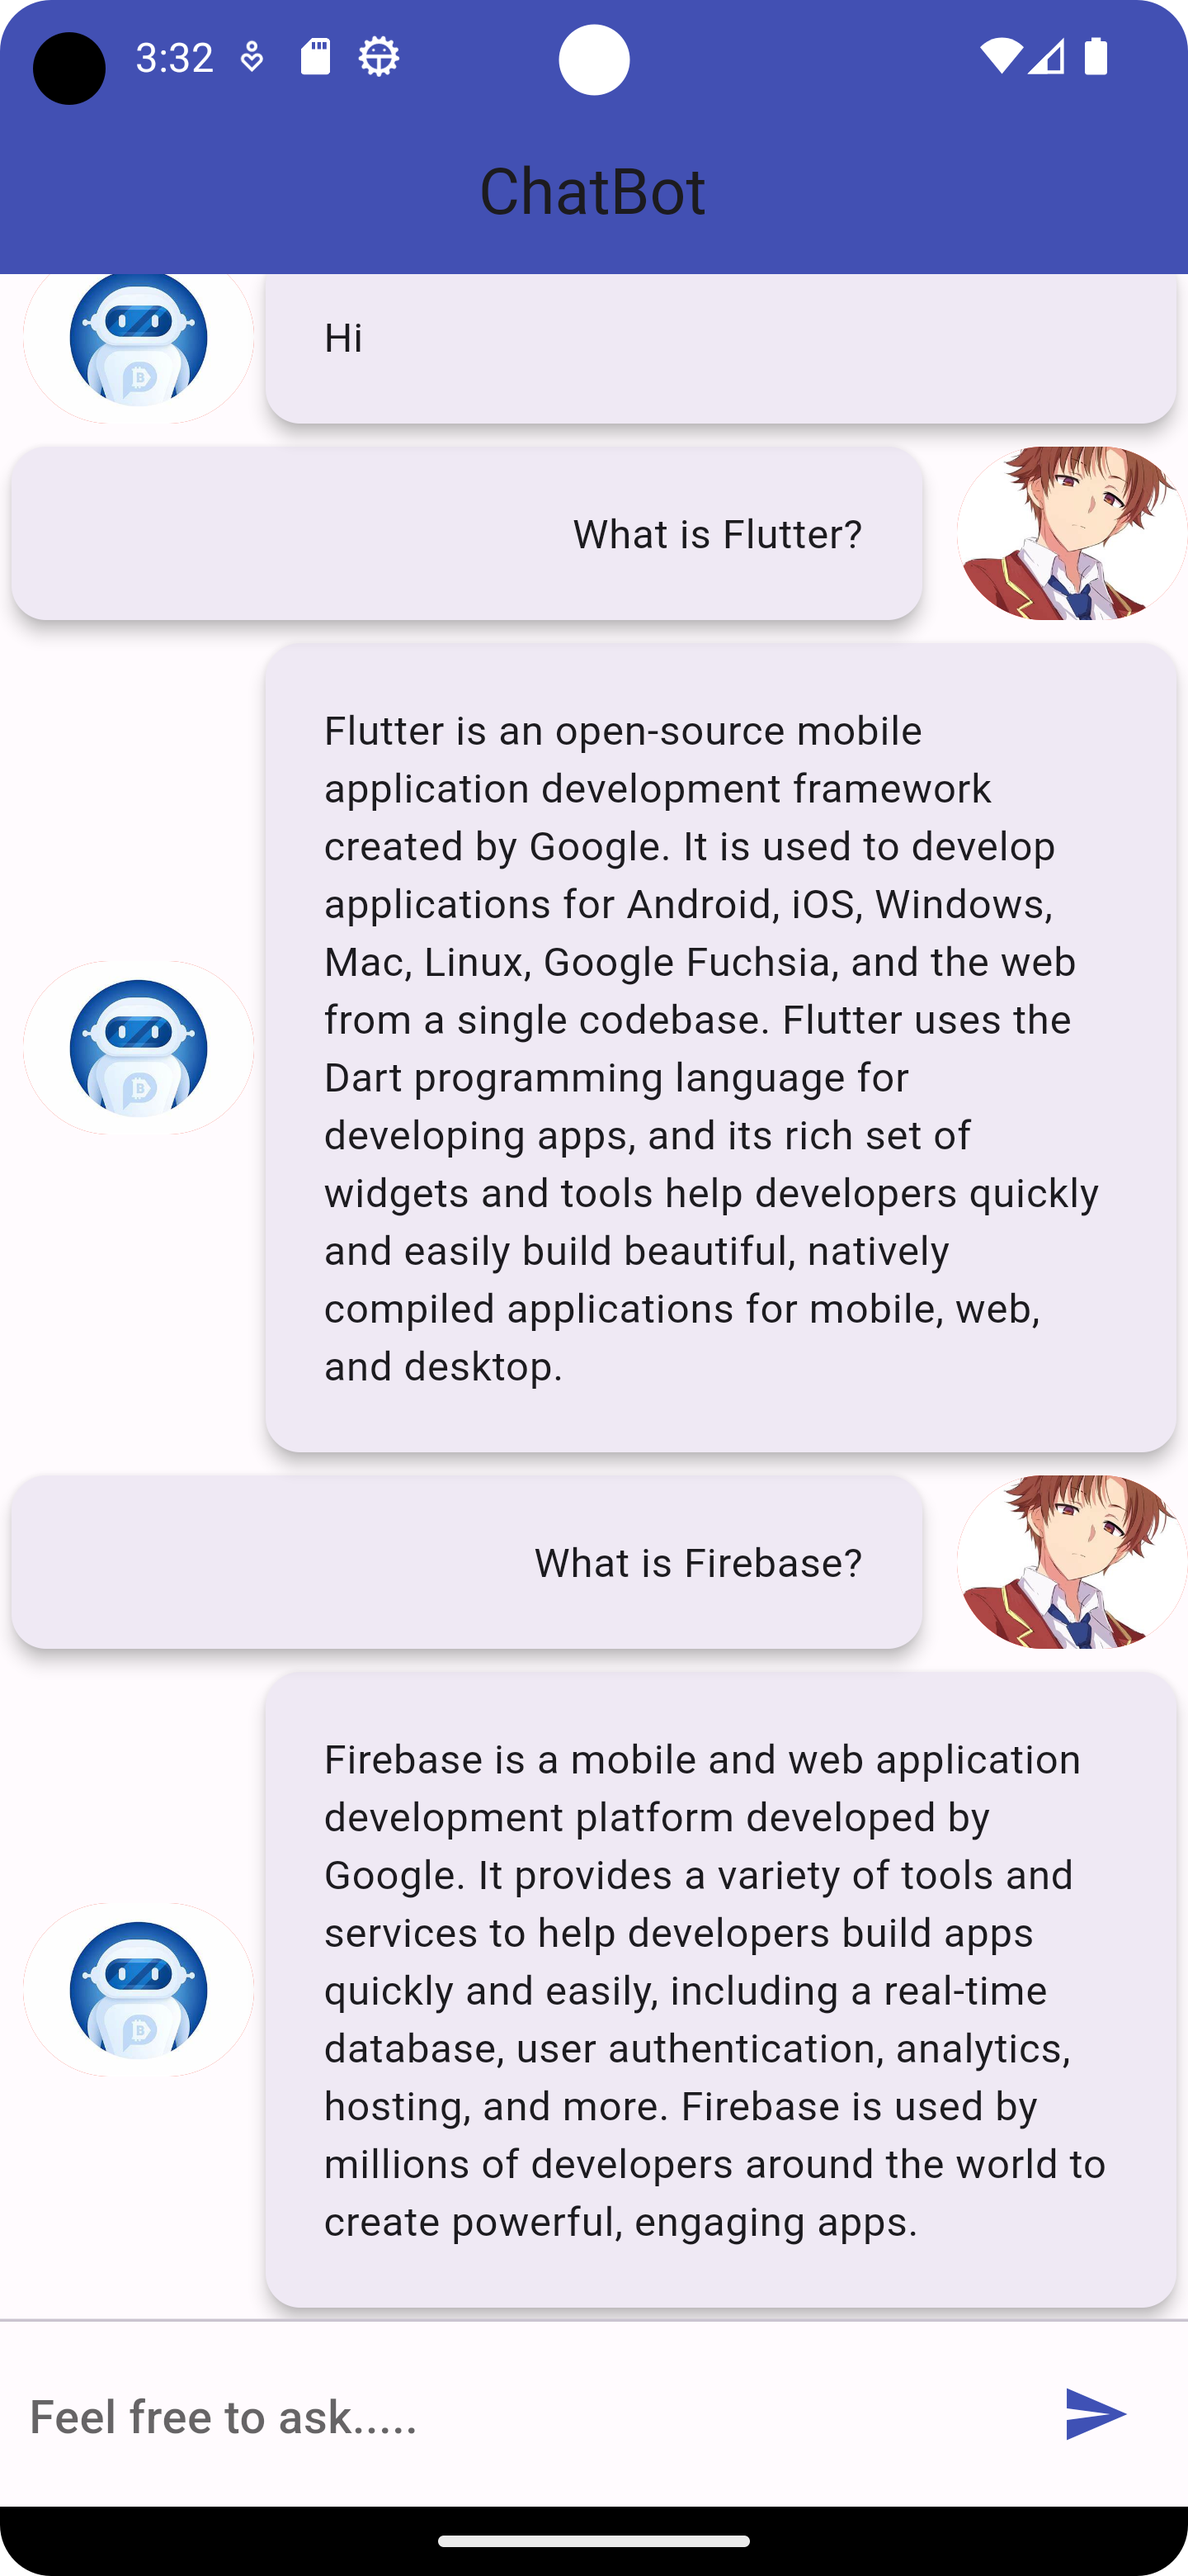
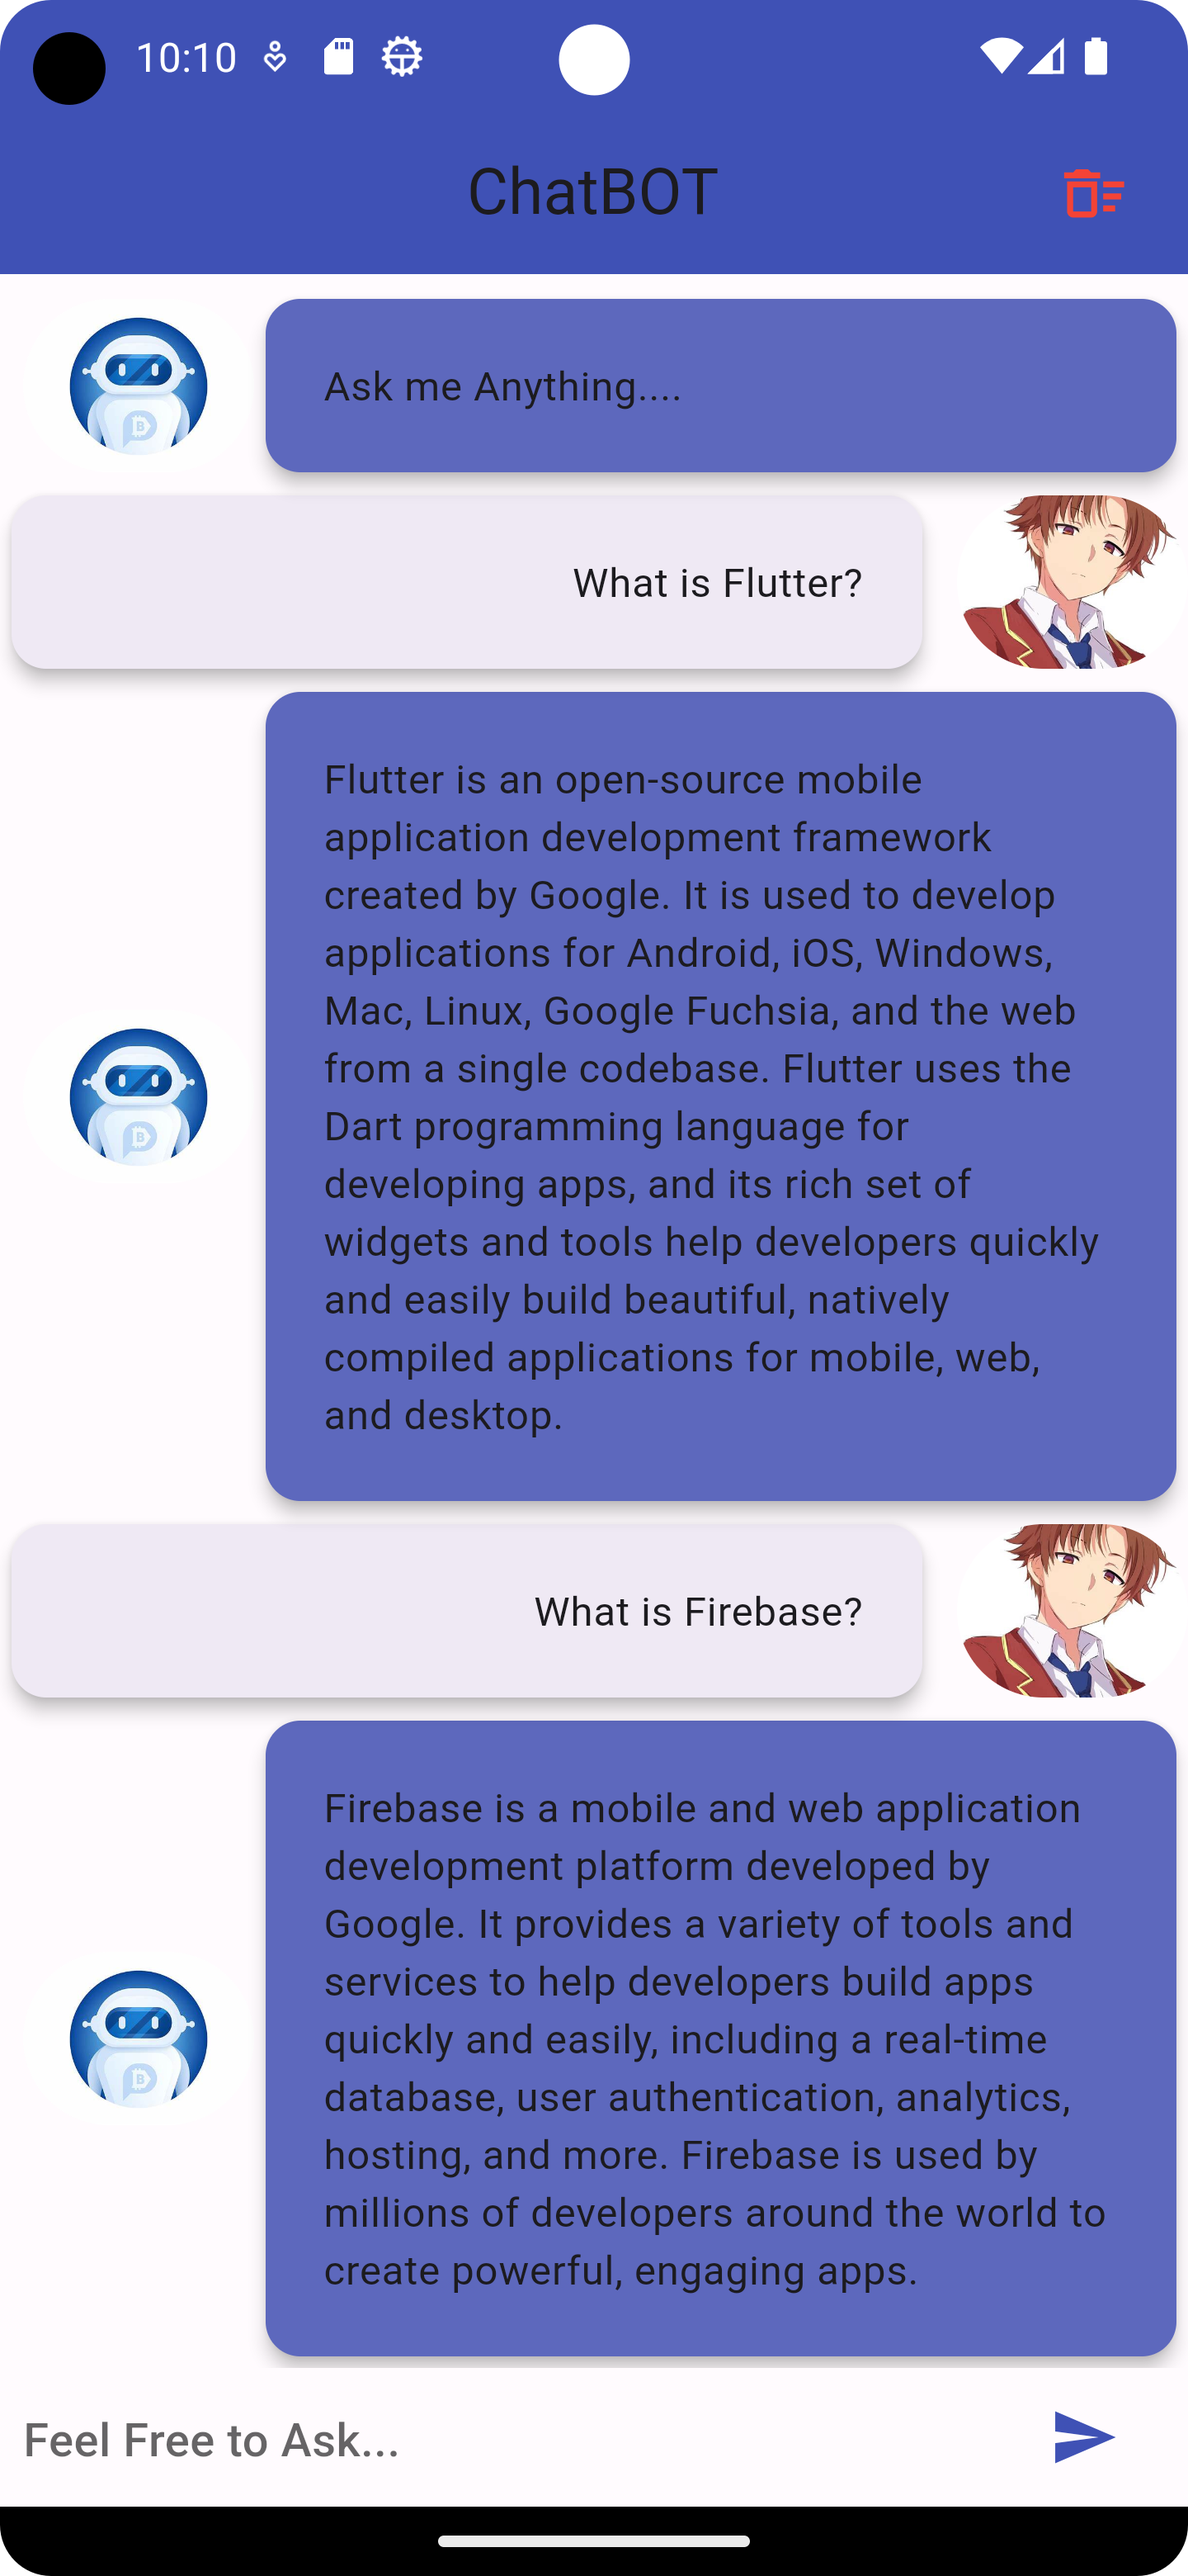
Add files via upload

diff --git a/lib/screens/homepage.dart b/lib/screens/homepage.dart
@@ -1,6 +1,9 @@
 import 'dart:convert';
+import 'package:chatbot/widgets/textfieldwithbutton.dart';
 import 'package:flutter/material.dart';
 import 'package:flutter_spinkit/flutter_spinkit.dart';
+import 'package:path/path.dart';
+import 'package:sqflite/sqflite.dart';
 import '../widgets/chatmessage.dart';
 import 'package:http/http.dart' as http;
 
@@ -14,15 +17,19 @@ class HomeScreen extends StatefulWidget {
 class _HomeScreenState extends State<HomeScreen> {
   final TextEditingController _controller = TextEditingController();
   final List<ChatMessage> _messages = [
-    ChatMessage(text: 'Hi', isMe: false),
+    const ChatMessage(text: 'Ask me Anything....', isMe: false),
   ];
-
   String _chatBotResponse = '';
   bool _isTyping = false;
-  static const apiKey = '{API-KEY}';
+  static const apiKey = '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';
+
+  @override
+  void initState() {
+    super.initState();
+    _getMessagesFromDB();
+  }
 
   Future<void> getGPT3Response(String input) async {
-    print(input);
     final url = Uri.parse('https://api.openai.com/v1/completions');
     final response = await http.post(
       url,
@@ -41,21 +48,31 @@ class _HomeScreenState extends State<HomeScreen> {
     final responseJson = jsonDecode(response.body);
     final responseText = responseJson['choices'][0]['text'];
 
-
     setState(() {
       _chatBotResponse = responseText;
       ChatMessage message = ChatMessage(
         text: _chatBotResponse.trim(),
         isMe: false,
       );
-      setState(() {
-        _messages.insert(0, message);
-        _isTyping = false;
-      });
+      _messages.insert(0, message);
+      _isTyping = false;
     });
+    Database database = await openDatabase(
+      join(await getDatabasesPath(), 'chatbot_db.db'),
+      onCreate: (db, version) {
+        return db.execute(
+          "CREATE TABLE messages (id INTEGER PRIMARY KEY, text TEXT, isMe INTEGER)",
+        );
+      },
+      version: 1,
+    );
+    await database.insert(
+      'messages',
+      {'text': responseText, 'isMe': 0},
+    );
   }
 
-  void _sendMessage() {
+  void _sendMessage() async {
     if (_controller.text.isEmpty) return;
     ChatMessage message = ChatMessage(
       text: _controller.text,
@@ -65,82 +82,110 @@ class _HomeScreenState extends State<HomeScreen> {
       _messages.insert(0, message);
       _isTyping = true;
     });
+
+    Database database = await openDatabase(
+      join(await getDatabasesPath(), 'chatbot_db.db'),
+      onCreate: (db, version) {
+        return db.execute(
+          "CREATE TABLE messages (id INTEGER PRIMARY KEY, text TEXT, isMe INTEGER)",
+        );
+      },
+      version: 1,
+    );
+    await database.insert(
+      'messages',
+      {'text': _controller.text, 'isMe': message.isMe ? 1 : 0},
+    );
     _controller.clear();
-    getGPT3Response(message.text);
+    await getGPT3Response(message.text);
   }
 
-  void insertNewData(String response) {
-    ChatMessage botMessage = ChatMessage(
-      text: response,
-      isMe: true,
+  void _clearDatabase() async {
+    final database = await openDatabase(
+      join(await getDatabasesPath(), 'chatbot_db.db'),
+      onCreate: (db, version) {
+        return db.execute(
+          "CREATE TABLE messages (id INTEGER PRIMARY KEY, text TEXT, isMe INTEGER)",
+        );
+      },
+      version: 1,
     );
+    await database.execute('DELETE FROM messages');
     setState(() {
-      _isTyping = false;
-      _messages.insert(0, botMessage);
+      _messages.clear();
     });
   }
 
-  Widget _buildTextComposer() {
-    return Row(
-      children: [
-        Expanded(
-          child: Padding(
-            padding: const EdgeInsets.all(10.0),
-            child: TextField(
-              controller: _controller,
-              onSubmitted: (value) {
-                _sendMessage();
-              },
-              decoration: const InputDecoration.collapsed(
-                  focusColor: Colors.greenAccent,
-                  hintText: "Feel free to ask....."),
-            ),
-          ),
-        ),
-        ButtonBar(
-          children: [
-            IconButton(
-              color: Colors.indigo,
-              icon: const Icon(Icons.send),
-              onPressed: _sendMessage,
-            ),
-          ],
-        ),
-      ],
+  void _getMessagesFromDB() async {
+    Database database = await openDatabase(
+      join(await getDatabasesPath(), 'chatbot_db.db'),
+      onCreate: (db, version) {
+        return db.execute(
+          "CREATE TABLE messages (id INTEGER PRIMARY KEY, text TEXT, isMe INTEGER)",
+        );
+      },
+      version: 1,
     );
+
+    final List<Map<String, dynamic>> messages =
+        await database.query('messages');
+
+    setState(() {
+      for (int i = messages.length - 1; i >= 0; i--) {
+        var message = messages[i];
+        _messages.add(ChatMessage(
+          text: message['text'],
+          isMe: message['isMe'] == 1,
+        ));
+      }
+    });
   }
 
   @override
   Widget build(BuildContext context) {
     return Scaffold(
-        appBar: AppBar(
-          title: const Center(
-            child: Text('ChatBot'),
+      appBar: AppBar(
+        title: const Text('ChatBOT'),
+        centerTitle: true,
+        backgroundColor: Colors.indigo,
+        actions: [
+          InkWell(
+            onTap: () {
+              _clearDatabase();
+            },
+            child: Row(
+              children: const [
+                // Text('Clear CHAT',style: TextStyle(color: Colors.teal),),
+                Icon(Icons.delete_sweep_outlined, color: Colors.red,size: 25,),
+                SizedBox(width: 20,)
+              ],
+            ),
+          )
+        ],
+      ),
+      body: Column(
+        children: <Widget>[
+          Expanded(
+            child: ListView.builder(
+              itemCount: _messages.length,
+              reverse: true,
+              itemBuilder: (BuildContext context, int index) {
+                return _messages[index];
+              },
+            ),
           ),
-          backgroundColor: Colors.indigo,
-        ),
-        body: Column(
-          children: [
-            Flexible(
-              child: ListView.builder(
-                physics: const BouncingScrollPhysics(),
-                itemCount: _messages.length,
-                reverse: true,
-                itemBuilder: (ctx, index) {
-                  return _messages[index];
-                },
-              ),
-            ),
-            _isTyping ? const SpinKitThreeBounce(color: Colors.green,) : Container(),
-            const Divider(
-              height: 1.0,
-            ),
-            Container(
-              decoration:
-                  BoxDecoration(borderRadius: BorderRadius.circular(15)),
-              child: _buildTextComposer(),
-            )
-          ],
-        ));
+          _isTyping
+              ? const SpinKitThreeBounce(
+                  color: Colors.blue,
+                  size: 30.0,
+                )
+              : Container(),
+          TextFieldWithButton(
+            controller: _controller,
+            sendMessage: _sendMessage,
+          ),
+        ],
+      ),
+    );
   }
 }

diff --git a/lib/widgets/chatmessage.dart b/lib/widgets/chatmessage.dart
@@ -1,7 +1,7 @@
 import 'package:flutter/material.dart';
 
 class ChatMessage extends StatelessWidget {
-  ChatMessage({
+  const ChatMessage({
     Key? key,
     required this.text,
     required this.isMe,
@@ -10,14 +10,15 @@ class ChatMessage extends StatelessWidget {
   final String text;
   final bool isMe;
 
-  String myImageUrl =
+  final String myImageUrl =
       'https://tse2.mm.bing.net/th?id=OIP.E4Kcb0Cqmc-hWVSpmS8qjAHaI9&pid=Api&P=0';
-  String botImageUrl =
+  final String botImageUrl =
       'https://tse4.mm.bing.net/th?id=OIP.FJt-FH98RKamoDc2nntVngHaFj&pid=Api&P=0';
 
-  Widget imageShow() {
+  Widget textResults(context) {
     return Expanded(
         child: Card(
+          color: isMe ? Theme.of(context).cardColor : Colors.indigo[400],
       elevation: 5,
       child: Container(
         margin: const EdgeInsets.all(15),
@@ -32,7 +33,7 @@ class ChatMessage extends StatelessWidget {
     ));
   }
 
-  Widget textResults() {
+  Widget imageShow() {
     return Container(
       margin: const EdgeInsets.only(left: 8),
       width: 80,
@@ -54,8 +55,8 @@ class ChatMessage extends StatelessWidget {
   Widget build(BuildContext context) {
     return Row(
       children: [
-        isMe ? imageShow() : textResults(),
-        isMe ? textResults() : imageShow(),
+        isMe ? textResults(context) : imageShow(),
+        isMe ? imageShow() : textResults(context) ,
       ],
     );
   }

diff --git a/lib/widgets/textfieldwithbutton.dart b/lib/widgets/textfieldwithbutton.dart
@@ -1,0 +1,40 @@
+import 'package:flutter/material.dart';
+
+class TextFieldWithButton extends StatelessWidget {
+  final TextEditingController controller;
+  final VoidCallback sendMessage;
+  const TextFieldWithButton({Key? key, required this.controller, required this.sendMessage}) : super(key: key);
+
+  @override
+  Widget build(BuildContext context) {
+    return Container(
+      decoration: BoxDecoration(color: Theme.of(context).cardColor),
+      child: Container(
+        margin: const EdgeInsets.symmetric(horizontal: 8.0),
+        child: Row(
+          children: [
+            Flexible(
+              child: TextField(
+                controller: controller,
+                onSubmitted: (value) => sendMessage(),
+                decoration: const InputDecoration.collapsed(
+                  hintText: 'Feel Free to Ask...',
+                ),
+              ),
+            ),
+            Container(
+              margin: const EdgeInsets.symmetric(horizontal: 4.0),
+              child: IconButton(
+                icon: const Icon(
+                  Icons.send,
+                  color: Colors.indigo,
+                ),
+                onPressed: () => sendMessage(),
+              ),
+            ),
+          ],
+        ),
+      ),
+    );
+  }
+}
